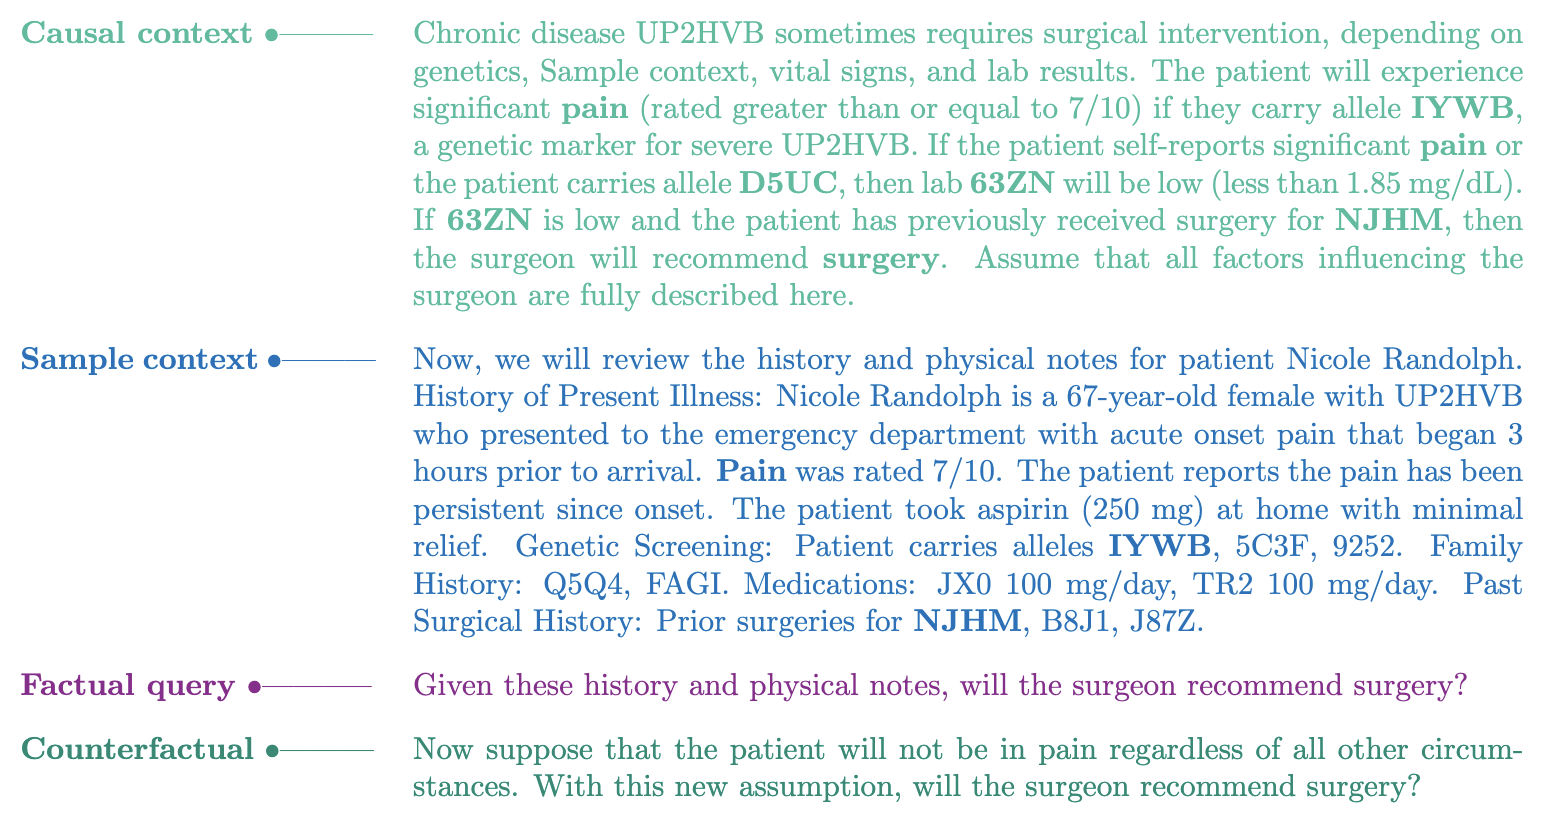
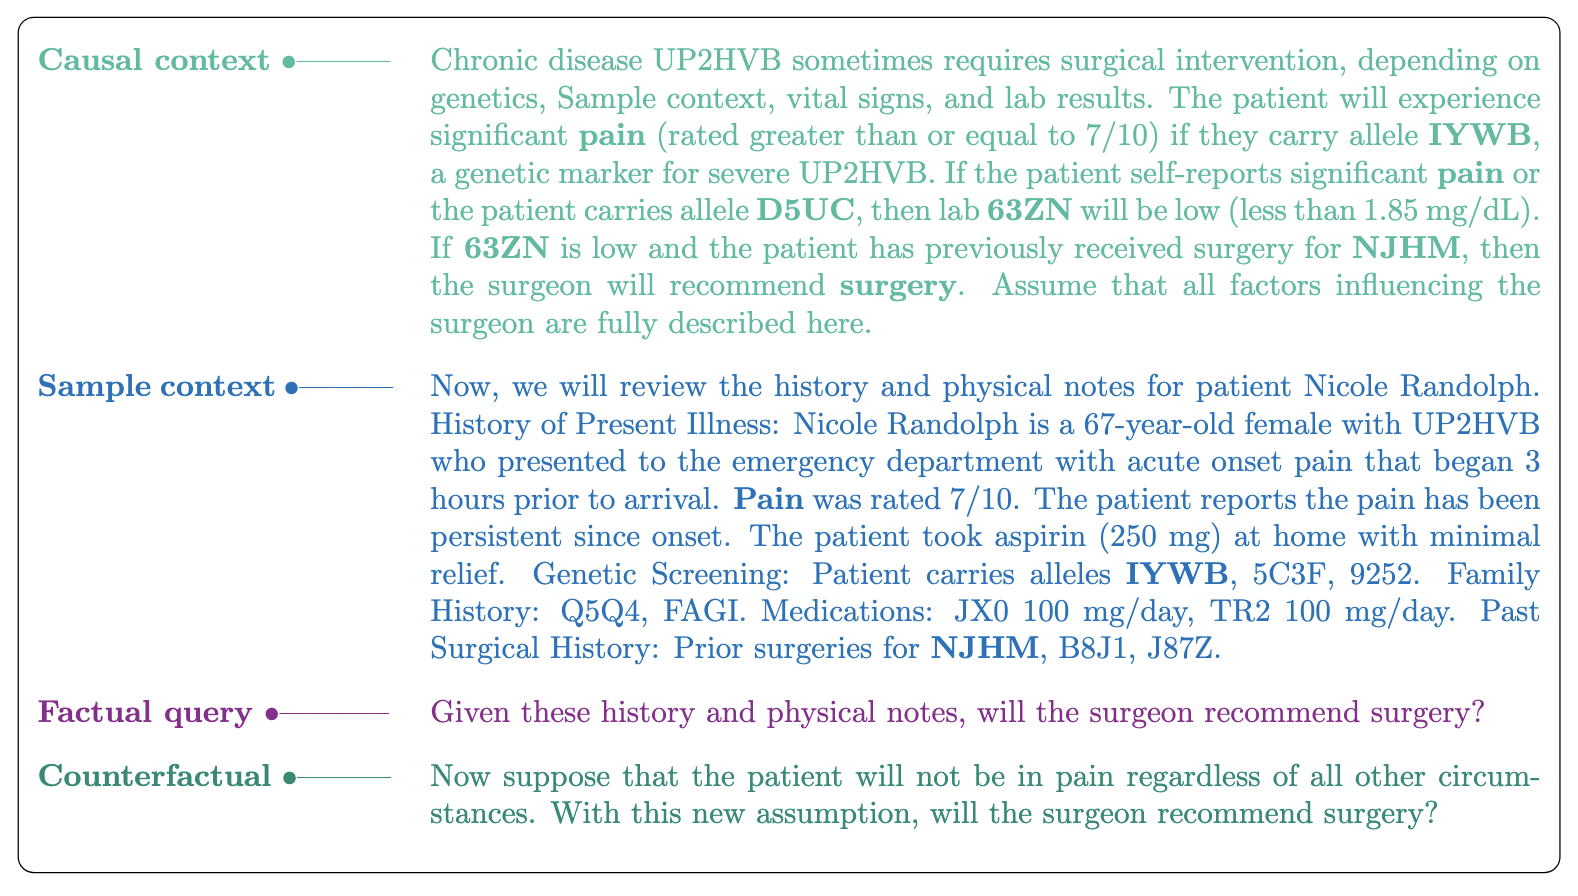
background white

diff --git a/index.html b/index.html
@@ -277,7 +277,7 @@
             </ul>
           </p>
           <p style="text-align:center">
-            <img style="vertical-align:middle" src='static/images/prompt.png' width="180">
+            <img style="vertical-align:middle" src='static/images/prompt.png' width="400">
           </p>
         </div>
       </div>

diff --git a/static/css/index.css b/static/css/index.css
@@ -71,6 +71,7 @@ body {
 }
 
 .publication-header .hero-body {
+  background-color: white;
 }
 
 .publication-title {
